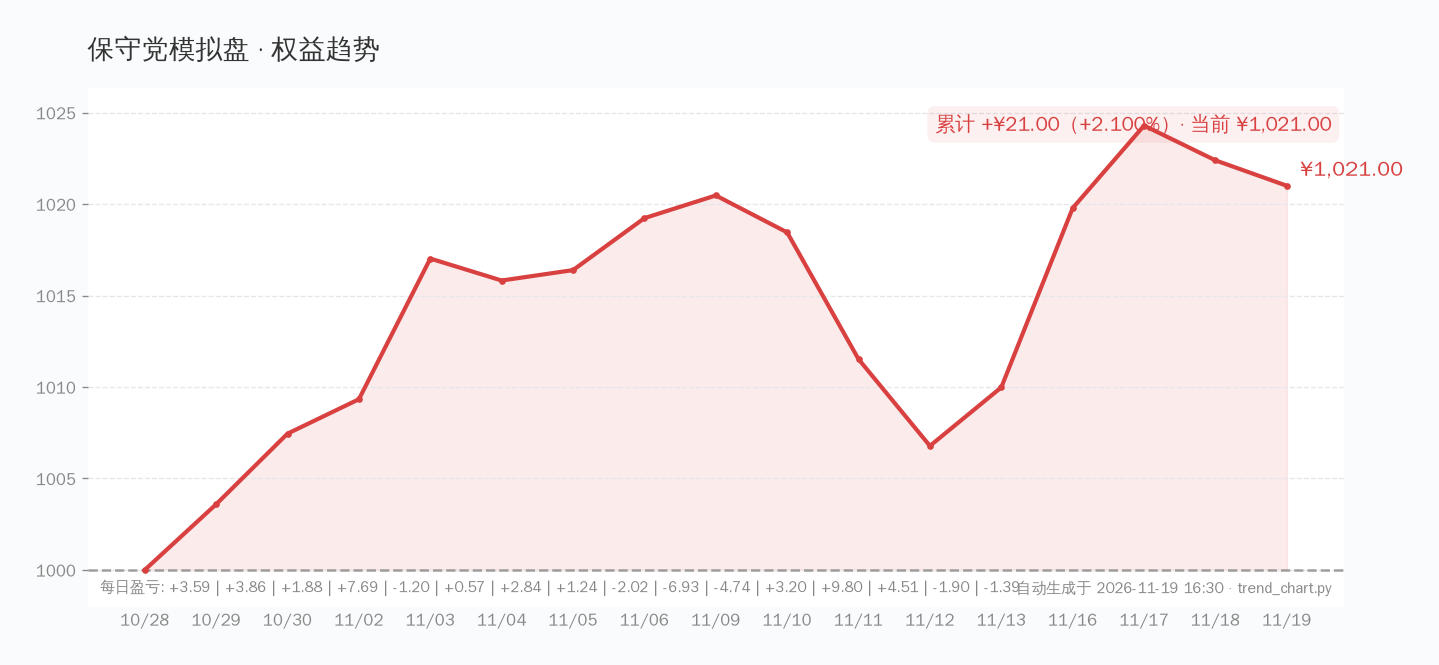
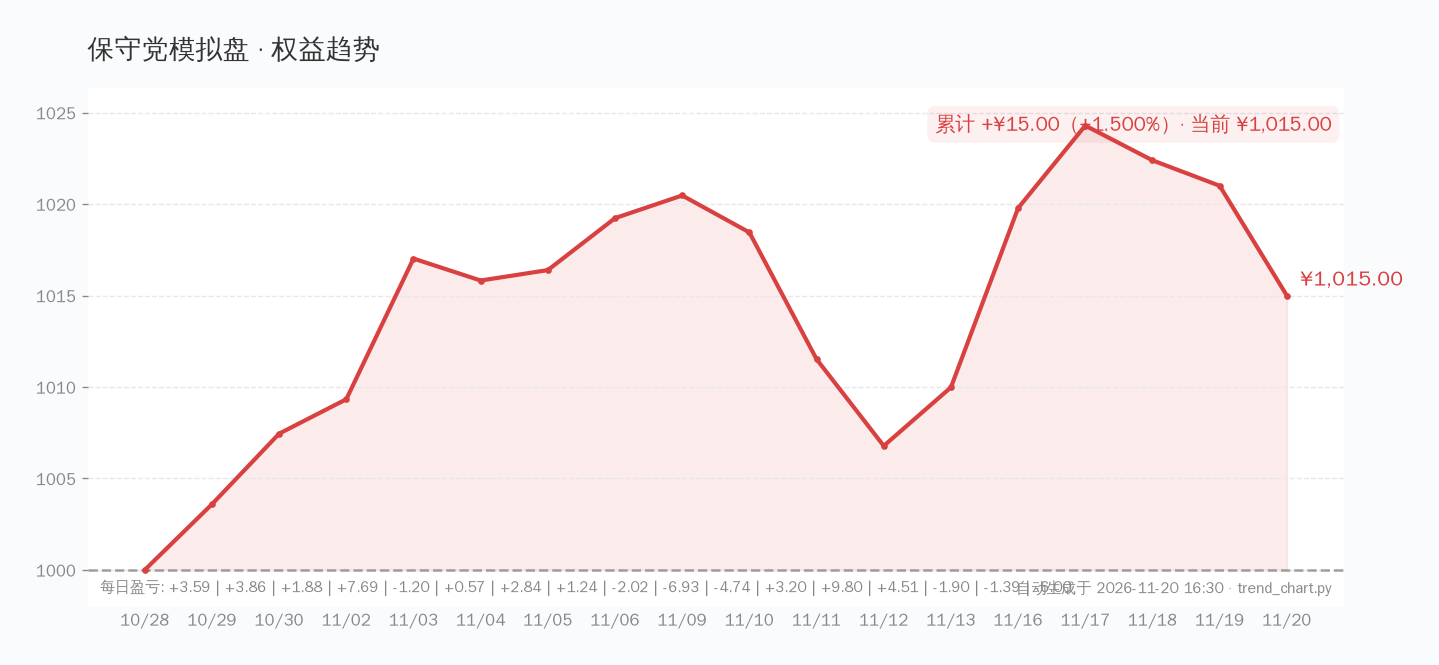
sim: trend chart update 2026-11-20 (equity ¥1,015.00)

diff --git a/sim/journal.md b/sim/journal.md
@@ -151,3 +151,11 @@
 - 现金 ¥273.93
 - 📝 自动收盘估值（看板 cron）
 
+## 2026-11-20 收盘
+
+- 总权益 **¥1015.00**（当日 -0.59% / 累计 +1.500%）
+- 红利低波100ETF景顺 1.485 (-0.40%)
+- 黄金ETF华安 7.282 (-4.34%)
+- 现金 ¥273.93
+- 📝 自动收盘估值（看板 cron）
+
